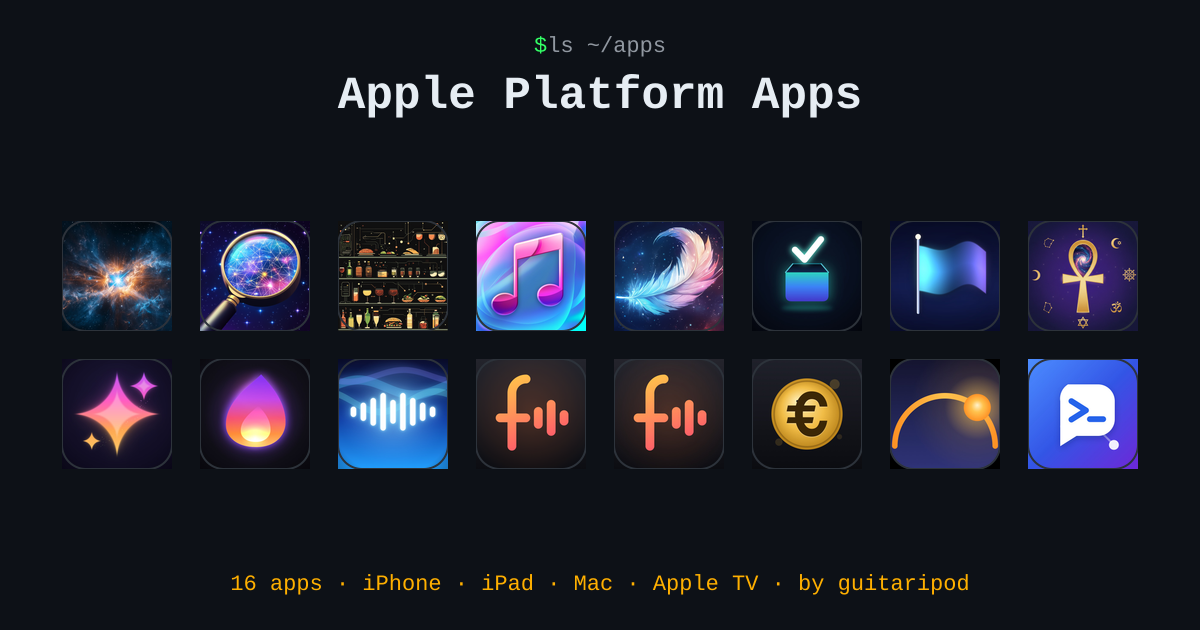
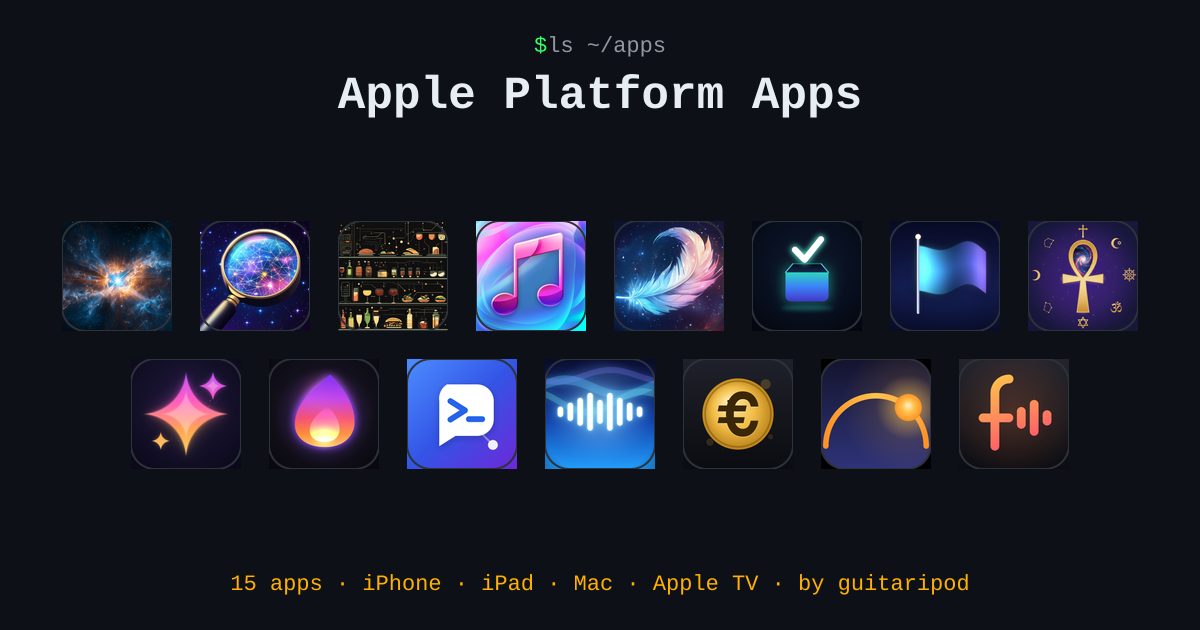
apps: merge companion platform editions into the primary entry

Changed region(s): [[0.0617, 0.5429, 0.9558, 0.754]]

diff --git a/internal/appstore/fetch.go b/internal/appstore/fetch.go
@@ -9,6 +9,7 @@ import (
 	"os"
 	"path/filepath"
 	"regexp"
+	"slices"
 	"sort"
 	"strings"
 	"time"
@@ -338,13 +339,22 @@ func fetchAppStoreData() ([]App, error) {
 	iTunesApps := iTunesResp.Results[1:]
 
 	apps := make([]App, 0, len(iTunesApps))
+	companions := make(map[int]iTunesApp, len(companionEditions))
 	for _, iTunesApp := range iTunesApps {
 		if primary, isCompanion := companionEditions[iTunesApp.TrackID]; isCompanion {
 			fmt.Printf("skipping %s (%d) — companion edition of %d\n",
 				iTunesApp.TrackName, iTunesApp.TrackID, primary)
+			companions[primary] = iTunesApp
 			continue
 		}
 		app := transformiTunesApp(iTunesApp)
+		if companion, ok := companions[iTunesApp.TrackID]; ok {
+			for _, platform := range mapDeviceTosPlatform(companion) {
+				if !slices.Contains(app.Platforms, platform) {
+					app.Platforms = append(app.Platforms, platform)
+				}
+			}
+		}
 		apps = append(apps, app)
 	}
 
